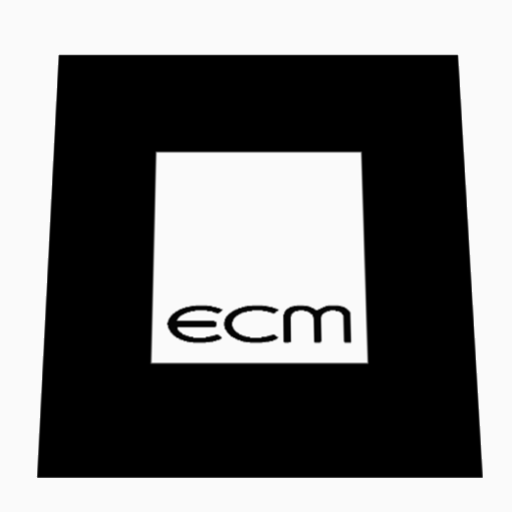
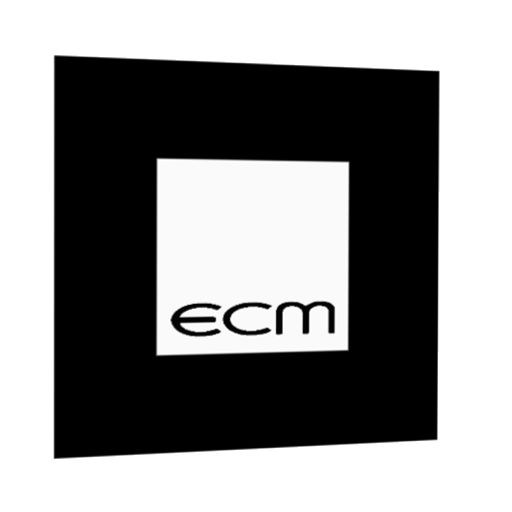
switch to new ar.js version for a better perspective

Changed region(s): [[0.0625, 0.0938, 0.9688, 0.9375], [0.2812, 0.2812, 0.7188, 0.7188]]

diff --git a/public/ar-index.html b/public/ar-index.html
@@ -4,7 +4,7 @@
     <meta charset="utf-8">
     <meta name="viewport" content="width=device-width, user-scalable=no, minimum-scale=1.0, maximum-scale=1.0">
     <script src='https://cdnjs.cloudflare.com/ajax/libs/three.js/91/three.min.js'></script>
-    <script src="https://cdn.rawgit.com/jeromeetienne/AR.js/1.5.0/three.js/build/ar.min.js"></script>
+    <script src="https://cdn.rawgit.com/jeromeetienne/AR.js/master/three.js/build/ar.min.js"></script>
     <script src="./resources/STLLoader.js"></script>
 
     <script>THREEx.ArToolkitContext.baseURL = './'</script>
@@ -130,11 +130,11 @@
     scene.add( hemiLight );
 
     const pointLight = new THREE.PointLight(0x606060, 1.5, 50, 2);
-    pointLight.position.set(3, 2, 2);
+    pointLight.position.set(3, 2, -3);
     scene.add(pointLight);
 
     const pointLight2 = new THREE.PointLight(0x606060, 1.5, 50, 2);
-    pointLight2.position.set(-3, 2, 2);
+    pointLight2.position.set(-3, 2, -3);
     scene.add(pointLight2);
 
     //////////////////////////////////////////////////////////////////////////////////
@@ -143,21 +143,22 @@
 
     const loader = new THREE.STLLoader();
 
-    function scaleObject(object, size) {
-        object.scale.set(0.01, 0.01, 0.006);
-
+    function scaleObject(size) {
         switch (size) {
             case '1000':
-                bottle.scale.set(0.0095, 0.0095, 0.006);
-                cap.position.set(0, -0.01, 0.01);
+                bottle.scale.set(0.0112, 0.0112, 0.013);
+                cap.scale.set(0.012, 0.012, 0.011);
+                cap.position.set(0, 0, -0.4);
                 break;
             case '750':
-                bottle.scale.set(0.009, 0.009, 0.005);
-                cap.position.set(0, -0.23, 0.04);
+                bottle.scale.set(0.0097, 0.0097, 0.01);
+                cap.scale.set(0.0115, 0.0115, 0.011);
+                cap.position.set(0, 0, 0.25);
                 break;
             case '500':
-                bottle.scale.set(0.0085, 0.0085, 0.004);
-                cap.position.set(0, -0.44, 0.06);
+                bottle.scale.set(0.0085, 0.0085, 0.009);
+                cap.scale.set(0.01, 0.01, 0.011);
+                cap.position.set(0, 0, 0.47);
                 break;
         }
     }
@@ -178,10 +179,10 @@
 
             cap = new THREE.Mesh(geometry, capMaterial);
 
-            cap.scale.set(0.01, 0.01, 0.006);
-            cap.rotateX(1.4);
+            cap.scale.set(0.0115, 0.0115, 0.011);
 
             scene.add(cap);
+            changeColor(flsk)
         }
     );
 
@@ -197,8 +198,7 @@
 
             bottle = new THREE.Mesh(geometry, bottleMaterial);
 
-            scaleObject(bottle);
-            bottle.rotateX(1.4);
+            scaleObject();
 
             scene.add(bottle);
             changeColor(flsk);
@@ -227,7 +227,7 @@
                 break;
         }
 
-        scaleObject(bottle, flskSize);
+        scaleObject(flskSize);
         bottleMaterial.color.setHex(newColor);
     }
 
